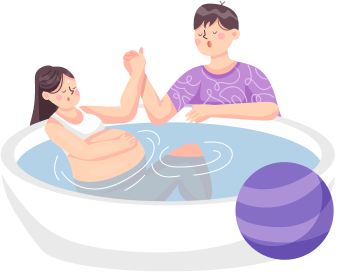
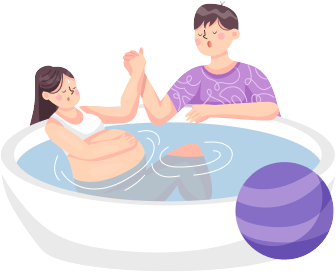
resize the image and add position relative for it

diff --git a/pages/OnboardingPage.tsx b/pages/OnboardingPage.tsx
@@ -11,7 +11,7 @@ import {
 import React from 'react';
 import carousel from '../data/carousel.json';
 
-const {width} = Dimensions.get('window');
+const {width, height} = Dimensions.get('window');
 const viewConfigRef = {viewAreaCoveragePercentThreshold: 95};
 
 interface CarouselItems {
@@ -43,23 +43,31 @@ const OnboardingPage = () => {
   const renderContent = () => {
     switch (currentIndex) {
       case 1:
-        return <Image source={require('../assets/momAndchild.png')} />;
+        return (
+          <Image
+            style={styles.momAndchild}
+            source={require('../assets/momAndchild.png')}
+          />
+        );
       case 2:
-        return <Image source={require('../assets/yoga.png')} />;
+        return (
+          <Image style={styles.yoga} source={require('../assets/yoga.png')} />
+        );
       case 3:
-        return <Image source={require('../assets/bath.png')} />;
+        return (
+          <Image style={styles.bath} source={require('../assets/bath.png')} />
+        );
       case 4:
-        return <Image source={require('../assets/child.png')} />;
+        return (
+          <Image style={styles.child} source={require('../assets/child.png')} />
+        );
       default:
         return <Image source={require('../assets/IsolationMode.png')} />;
     }
   };
   return (
     <View style={styles.container}>
-      <View style={styles.upperview}>
-        {/* <Image source={require('../assets/IsolationMode.png')} /> */}
-        {renderContent()}
-      </View>
+      <View style={styles.upperview}>{renderContent()}</View>
       <View style={styles.lowerview}>
         <FlatList
           horizontal
@@ -106,6 +114,7 @@ const styles = StyleSheet.create({
     justifyContent: 'flex-end',
     alignItems: 'center',
     width: width,
+    zIndex: 2,
   },
   lowerview: {
     flex: 1.4,
@@ -159,6 +168,30 @@ const styles = StyleSheet.create({
     textAlign: 'center',
     fontWeight: '400',
     color: '#A0A0A0',
+  },
+  momAndchild: {
+    position: 'relative',
+    top: 60,
+    height: height / 2.9,
+    width: width / 1.9,
+  },
+  yoga: {
+    position: 'relative',
+    top: 55,
+    width: width,
+    height: height / 3.5,
+  },
+  bath: {
+    position: 'relative',
+    top: 60,
+    width: width / 1.1,
+    height: height / 2.9,
+  },
+  child: {
+    position: 'relative',
+    top: 55,
+    width: width,
+    height: height / 2.5,
   },
 });
 
